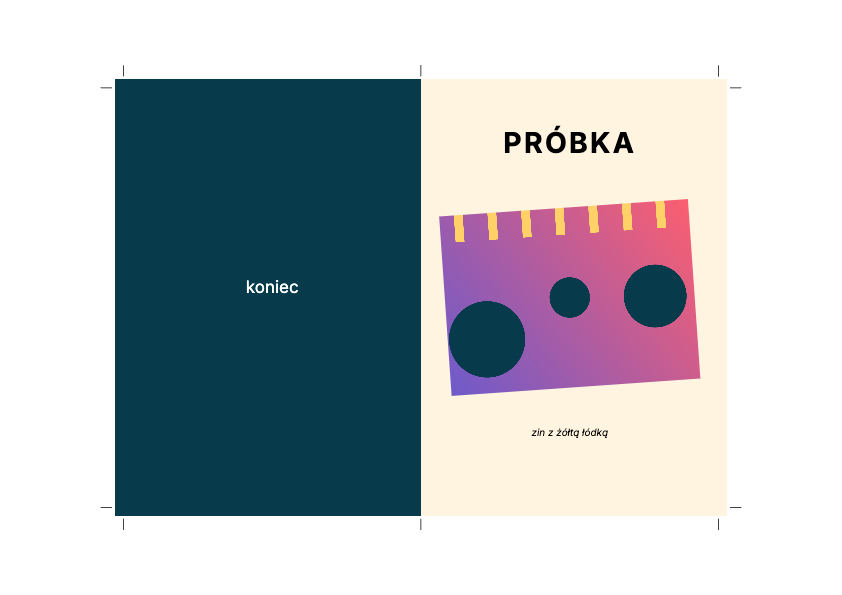
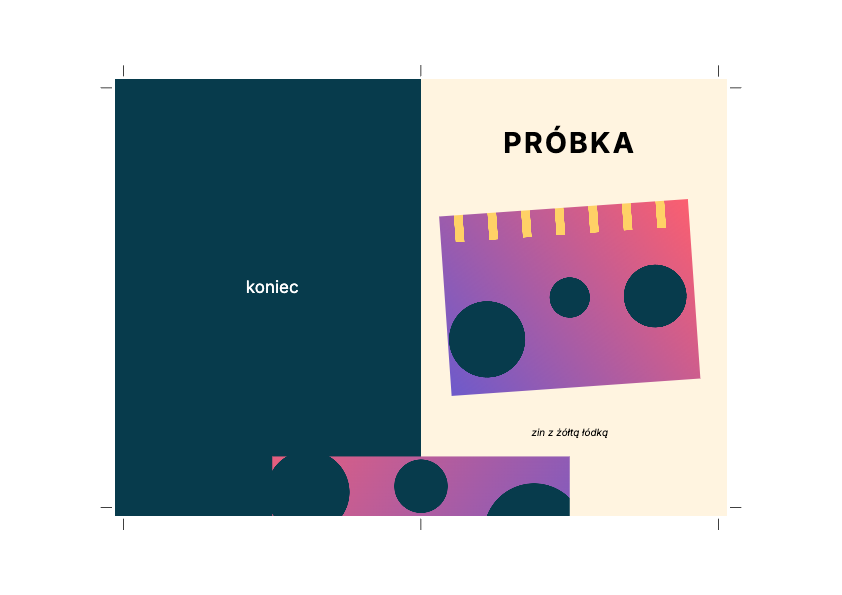
Wrap a sample photo around the cover and refresh its reference

Changed region(s): [[0.4014, 0.7563, 0.6793, 0.8773], [0.3088, 0.7563, 0.3397, 0.7866]]

diff --git a/src/test/sampleZine.ts b/src/test/sampleZine.ts
@@ -31,7 +31,8 @@ export const SAMPLE_SHEETS = 3;
 
 /**
  * The sample zine for the sheet PNGs and the render references: 3 sheets, text in the bundled
- * Inter (fonts loaded before returning), photos across the fold, into the bleed, rotated and flipped.
+ * Inter (fonts loaded before returning), photos across the fold, into the bleed, rotated and flipped,
+ * and a photo wrapping around the cover from the back to the front.
  * Changing it changes the references: refresh them on purpose (see CLAUDE.md).
  */
 export async function sampleZine(): Promise<{ zine: Zine; assets: RenderAssets }> {
@@ -79,8 +80,10 @@ export async function sampleZine(): Promise<{ zine: Zine; assets: RenderAssets }
     createPhotoElement('p', { x: 28.4, y: 28.2, width: 153.2, height: 91.6, opacity: 0.8 }),
     createTextElement({ text: 'Zdjęcie przez grzbiet, strony 10 i 11', size: 7.8, x: 21.3, y: 126.9, width: 62.4 }),
   );
-  // Back cover (page 12, left half of spread 0, the outside cover).
+  // Back cover (page 12, left half of spread 0, the outside cover), and a photo wrapping
+  // around the spine from the back cover to the front, bleeding off the bottom.
   zine.spreads[0].elements.push(
+    createPhotoElement('p', { x: 52.5, y: 130, width: 105, height: 21, crop: { offsetX: 0, offsetY: 0, zoom: 1.2 } }),
     createTextElement({ text: 'koniec', size: 17, x: 21.3, y: 67, width: 62.4, align: 'center', color: '#ffffff' }),
   );
 

diff --git a/src/print/sheetSide.browser.test.ts b/src/print/sheetSide.browser.test.ts
@@ -84,4 +84,19 @@ describe('renderSheetSide at the fold', () => {
       }
     }
   });
+
+  test('a photo wrapping around the cover prints in one piece on the front of sheet 1', async () => {
+    const wrap = createZine('t', 1);
+    wrap.spreads[0].elements.push(createPhotoElement('dark', { x: -3, y: -3, width: SPREAD_WIDTH + 6, height: PAGE_HEIGHT + 6 }));
+    const darkAssets = { images: new Map([['dark', await solidBitmap(64, 64, '#202020')]]) };
+    const dpi = 150;
+    const k = mmToPx(dpi);
+    for (const l of layouts) {
+      const canvas = renderSheetSide(wrap, front, darkAssets, l, { dpi, cropMarks: true, foldMarks: true, rotate180: false });
+      const spine = l.spread.x + l.spread.width / 2;
+      for (const x of [l.spread.x + PAGE_WIDTH / 2, spine, l.spread.x + l.spread.width - PAGE_WIDTH / 2]) {
+        expectColor(pixel(canvas, x * k, 105 * k), [32, 32, 32]);
+      }
+    }
+  });
 });
